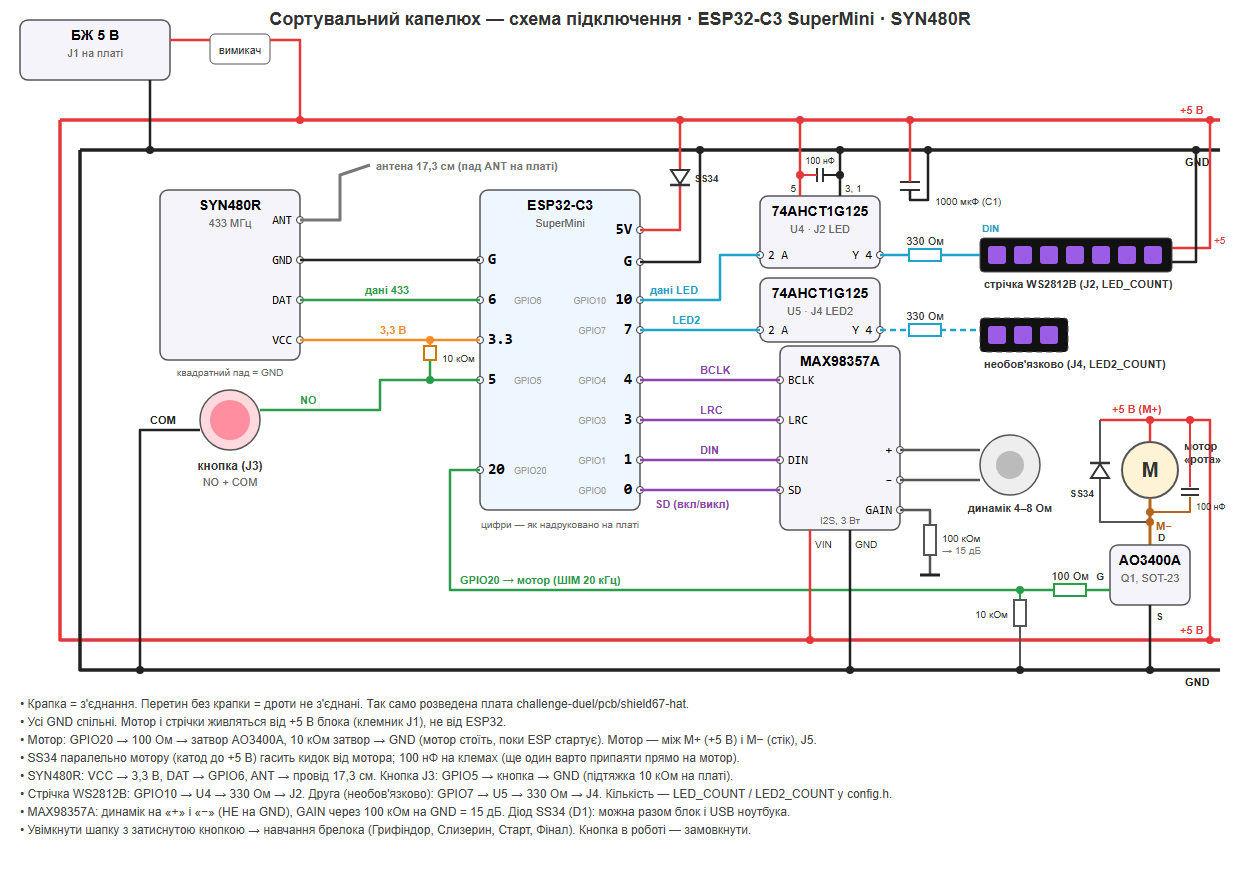
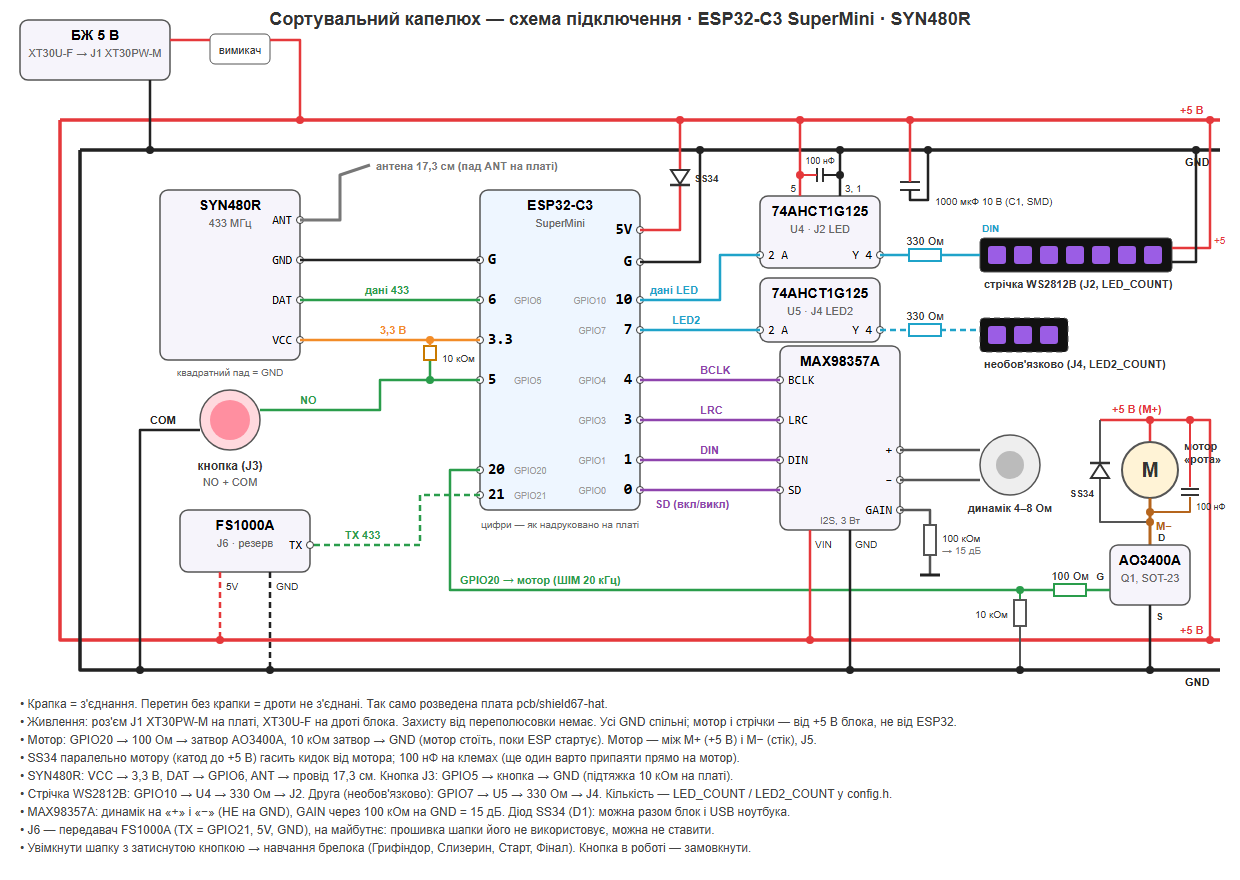
Docs for the updated hat board: XT30 on J1, J6 FS1000A, SMD C1, panel gerbers
Wiring diagram and README no longer call J1 a screw terminal, show the J6 header
on GPIO21 (unused by the firmware) and point to pcb/. No firmware changes.

diff --git a/docs/tools/wiring_hat.py b/docs/tools/wiring_hat.py
@@ -1,5 +1,5 @@
 """Схема підключення шапки «Сортувальний капелюх» (квест «Гаррі Поттер»).
-Плата challenge-duel/pcb, варіант hat: ESP32-C3 SuperMini, приймач SYN480R, MAX98357A, ключ мотора AO3400A.
+Плата pcb/ (генерується в challenge-duel, варіант hat): ESP32-C3 SuperMini, приймач SYN480R, MAX98357A, ключ мотора AO3400A.
 python docs/tools/wiring_hat.py → docs/wiring-hat.svg (+ wiring-hat.png, якщо є Microsoft Edge)
 Зроблено з firmware/tools/wiring_diagram.py репозиторію challenge-duel (схема щита c3syn)."""
 import subprocess
@@ -62,7 +62,7 @@ wire([(60, TOP5), (60, BOT5), (1220, BOT5)], RED, '+5 В', 1180, BOT5 - 6, 3.5)
 wire([(80, TOPG), (80, BOTG), (1220, BOTG)], BLK, 'GND', 1185, BOTG + 16, 3.5)
 
 # ---- блок живлення + вимикач ----
-box(20, 20, 150, 60, 'БЖ 5 В', 'J1 на платі')
+box(20, 20, 150, 60, 'БЖ 5 В', 'XT30U-F → J1 XT30PW-M')
 out.append('<rect x="210" y="34" width="60" height="30" rx="5" fill="#fff" stroke="#555"/>')
 text(240, 54, 'вимикач', 11, 'middle')
 wire([(170, 40), (210, 40)], RED)
@@ -71,7 +71,7 @@ wire([(150, 80), (150, TOPG)], BLK); dot(150, TOPG, BLK)
 
 # ---- ESP32-C3 SuperMini ----
 box(480, 190, 160, 320, 'ESP32-C3', 'SuperMini', '#eef6ff')
-L = {'GND': 260, 'GPIO6': 300, '3V3': 340, 'GPIO5': 380, 'GPIO20': 470}   # у порядку виводів SYN480R
+L = {'GND': 260, 'GPIO6': 300, '3V3': 340, 'GPIO5': 380, 'GPIO20': 470, 'GPIO21': 495}   # у порядку виводів SYN480R
 R = {'5V': 230, 'GND ': 262, 'GPIO10': 300, 'GPIO7': 330, 'GPIO4': 380, 'GPIO3': 420, 'GPIO1': 460, 'GPIO0': 490}
 SILK = {'3V3': '3.3', 'GND': 'G', 'GND ': 'G', '5V': '5V'}   # як надруковано на платі SuperMini
 for side, pins, x in (('l', L, 480), ('r', R, 640)):
@@ -124,11 +124,11 @@ box(760, 278, 120, 64, '74AHCT1G125', 'U5 · J4 LED2')
 pin(760, 330, '2 A', 'l'); pin(880, 330, 'Y 4', 'r')
 wire([(640, 300), (720, 300), (720, 255), (760, 255)], DATA, 'дані LED', 650, 294)
 wire([(640, 330), (760, 330)], DATA, 'LED2', 672, 324)
-# 1000 мкФ (C1) — він же накопичувальний для мотора
+# 1000 мкФ 10 В (C1, SMD-електроліт) — він же накопичувальний для мотора
 out.append('<line x1="900" y1="182" x2="920" y2="182" stroke="#333" stroke-width="2"/><line x1="900" y1="190" x2="920" y2="190" stroke="#333" stroke-width="2"/>')
 wire([(910, TOP5), (910, 182)], RED); wire([(910, 190), (910, 200), (928, 200), (928, TOPG)], BLK)
 dot(910, TOP5, RED); dot(928, TOPG, BLK)
-text(935, 205, '1000 мкФ (C1)', 10)
+text(935, 205, '1000 мкФ 10 В (C1, SMD)', 10)
 
 
 # ---- стрічки WS2812B ----
@@ -182,6 +182,13 @@ out.append('<rect x="1014" y="600" width="12" height="26" fill="#fff" stroke="#5
 wire([(1020, 626), (1020, BOTG)], '#555', width=2); dot(1020, BOTG, BLK)
 text(1008, 618, '10 кОм', 10, 'end')
 
+# ---- J6: передавач FS1000A, на майбутнє (прошивка шапки його не використовує) ----
+box(180, 510, 130, 62, 'FS1000A', 'J6 · резерв')
+pin(310, 545, 'TX', 'r')
+wire([(480, 495), (420, 495), (420, 545), (310, 545)], SIG, 'TX 433', 345, 539, dash=True)
+wire([(220, 572), (220, BOT5)], RED, dash=True); dot(220, BOT5, RED); text(226, 590, '5V', 10)
+wire([(270, 572), (270, BOTG)], BLK, dash=True); dot(270, BOTG, BLK); text(276, 590, 'GND', 10)
+
 # ---- MAX98357A ----
 box(780, 346, 120, 184, 'MAX98357A')
 text(840, 524, 'I2S, 3 Вт', 10, 'middle', fill='#666')
@@ -205,13 +212,14 @@ wire([(900, 450), (980, 450)], '#555'); wire([(900, 480), (980, 480)], '#555')
 # ---- заголовок і примітки ----
 text(W / 2, 25, 'Сортувальний капелюх — схема підключення · ESP32-C3 SuperMini · SYN480R', 18, 'middle', weight='700')
 notes = [
-    'Крапка = з\'єднання. Перетин без крапки = дроти не з\'єднані. Так само розведена плата challenge-duel/pcb/shield67-hat.',
-    'Усі GND спільні. Мотор і стрічки живляться від +5 В блока (клемник J1), не від ESP32.',
+    'Крапка = з\'єднання. Перетин без крапки = дроти не з\'єднані. Так само розведена плата pcb/shield67-hat.',
+    'Живлення: роз\'єм J1 XT30PW-M на платі, XT30U-F на дроті блока. Захисту від переполюсовки немає. Усі GND спільні; мотор і стрічки — від +5 В блока, не від ESP32.',
     'Мотор: GPIO20 → 100 Ом → затвор AO3400A, 10 кОм затвор → GND (мотор стоїть, поки ESP стартує). Мотор — між M+ (+5 В) і M− (стік), J5.',
     'SS34 паралельно мотору (катод до +5 В) гасить кидок від мотора; 100 нФ на клемах (ще один варто припаяти прямо на мотор).',
     'SYN480R: VCC → 3,3 В, DAT → GPIO6, ANT → провід 17,3 см. Кнопка J3: GPIO5 → кнопка → GND (підтяжка 10 кОм на платі).',
     'Стрічка WS2812B: GPIO10 → U4 → 330 Ом → J2. Друга (необов\'язково): GPIO7 → U5 → 330 Ом → J4. Кількість — LED_COUNT / LED2_COUNT у config.h.',
     'MAX98357A: динамік на «+» і «−» (НЕ на GND), GAIN через 100 кОм на GND = 15 дБ. Діод SS34 (D1): можна разом блок і USB ноутбука.',
+    'J6 — передавач FS1000A (TX = GPIO21, 5V, GND), на майбутнє: прошивка шапки його не використовує, можна не ставити.',
     'Увімкнути шапку з затиснутою кнопкою → навчання брелока (Грифіндор, Слизерин, Старт, Фінал). Кнопка в роботі — замовкнути.',
 ]
 for i, n in enumerate(notes):

diff --git a/README.md b/README.md
@@ -27,8 +27,12 @@
 - Плата: [`pcb/`](pcb/) — гербери для замовлення, BOM, схема, KiCad (50×50 мм): ESP32-C3 SuperMini, MAX98357A,
   приймач SYN480R, ключ мотора AO3400A на GPIO20 з захисним діодом SS34.
 - Схема підключення: [`docs/wiring-hat.png`](docs/wiring-hat.png) (генерує `docs/tools/wiring_hat.py`).
-- Клемники: J1 блок 5 В (роз'єм XT30PW-M) · J2 стрічка WS2812B · J3 кнопка · J4 друга стрічка (необов'язково) ·
-  **J5 МОТОР (M+ / M−)** · динамік — у клеми модуля MAX98357A.
+- Роз'єми: J1 блок 5 В (**XT30PW-M** на платі, XT30U-F на дроті блока; захисту від переполюсовки немає) ·
+  клемники J2 стрічка WS2812B · J3 кнопка · J4 друга стрічка (необов'язково) · **J5 МОТОР (M+ / M−)** ·
+  J6 передавач FS1000A (TX = GPIO21, 5V, GND; на майбутнє, прошивка його не використовує) ·
+  динамік — у клеми модуля MAX98357A.
+- C1 — SMD-електроліт 1000 мкФ 10 В, 10×10,5 мм (Hitano ELV102M10RF): конденсатор із виводами на цю плату не встане.
+- Замовлення: панель 2×2 `pcb/panel-hat-gerber.zip` або одна плата `pcb/shield67-hat-gerber.zip`; деталі й пайка — [`pcb/README.md`](pcb/README.md).
 - Мотор живиться від +5 В блока. Ключ витримує кілька ампер, але **мотор має бути на 5 В**.
   Для мотора на 12 В потрібне окреме живлення — скажіть, переробимо.
 

diff --git a/CLAUDE.md b/CLAUDE.md
@@ -6,7 +6,8 @@ LaserX «6-7» (репозиторій `challenge-duel`, `pcb/`, варіант 
 
 ## Рішення
 - Плата: генератор живе в `challenge-duel/pcb/tools` (варіант hat = syn + Q1 AO3400A, R7 100 Ом, R8 10 к,
-  D2 SS34, C5/C6 100 нФ, J5 МОТОР; нижній ряд клемників PT 3,5 мм). Накопичувальний для мотора — C1 1000 мкФ поруч.
+  D2 SS34, C5/C6 100 нФ, J5 МОТОР; клемники PT 3,5 мм, J1 — XT30PW-M, J6 — FS1000A на GPIO21 (прошивка не використовує), 2 отвори кріплення зверху).
+  Накопичувальний для мотора — C1, SMD 1000 мкФ 10 В 10×10,5 (Hitano ELV102M10RF). Правки плати — в challenge-duel, файли `*-hat*` копіювати в `pcb/`.
 - Піни C3: мотор 20 (не 21 — TX завантажувача), LED 10 (J2), LED2 7 (J4), кнопка 5, RF 6,
   I2S BCLK 4 / LRC 3 / DIN 1 / SD 0.
 - Звуки: 18 mp3 → IMA ADPCM 16 кГц у `sounds.h` (PCM не влазить у 4 МБ флеш). Partition «Huge APP».
@@ -22,4 +23,3 @@ LaserX «6-7» (репозиторій `challenge-duel`, `pcb/`, варіант 
 ## Відкриті питання
 - Мотор: напруга, струм, модель (зараз розраховано на 5 В).
 - Скільки світлодіодів і де (LED_COUNT / LED2_COUNT), чи потрібні взагалі.
-- Плата: замовник дивиться картинку → тоді Gerber/BOM (`build.py --export` з `SHIELD67_VARIANT=hat`).
